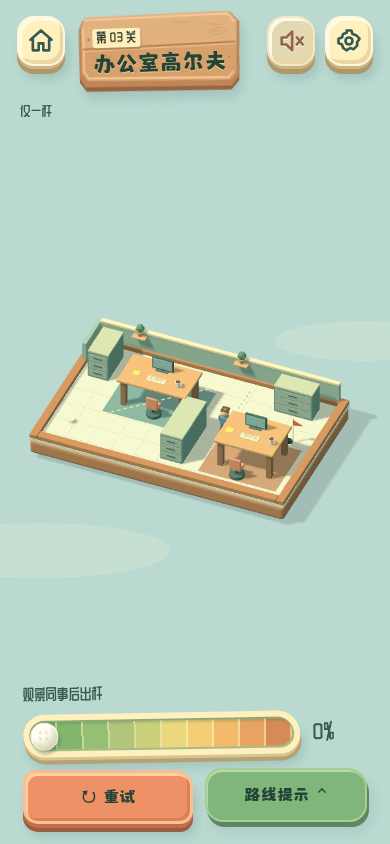
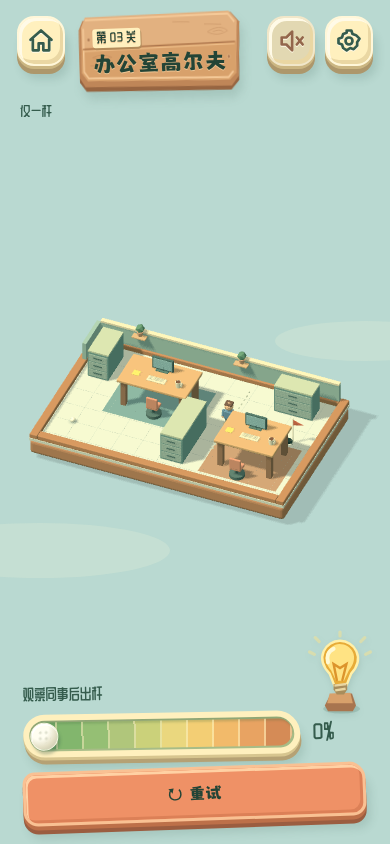
feat: add wooden settings and verified route hint props for stage B

diff --git a/src/main.ts b/src/main.ts
@@ -3,11 +3,14 @@ import "./toy-ui.css";
 import "./fonts.css";
 import "./typography.css";
 import "./stage-a.css";
-import { woodProp, difficultyStars } from "./ui-props";
+import "./stage-b.css";
+import { routeMap } from "./route-map";
+import { Music } from "./music";
+import { woodProp, difficultyStars, bulbProp } from "./ui-props";
 import { icon } from "./ui-icons";
 import gameLogo from "./assets/game-logo.png";
 import { levels } from "./levels";
-import { createBall, shoot, step, STEP, type Ball } from "./physics";
+import { createBall, shoot, step, STEP, actorAt, type Ball } from "./physics";
 import { GolfScene } from "./scene";
 import { Sound } from "./audio";
 import { destinations } from "./world-map";
@@ -18,8 +21,8 @@ function boot() {
   app.innerHTML = `<div class="cloud cloud-a"></div><div class="cloud cloud-b"></div><div id="viewport"><canvas aria-label="立体高尔夫球场：按住白球向后拖拽，松手击球"></canvas></div>
 <header><button id="home" class="icon" aria-label="返回选关">${icon("home")}</button><div class="header-tools"><button id="sound" class="icon" aria-label="关闭音效" aria-pressed="true">${icon("sound")}<span class="icon-label">音效开</span></button><button id="settings-open" class="icon" aria-label="打开设置" aria-haspopup="dialog">${icon("settings")}<span class="icon-label">设置</span></button></div></header>
 <section id="menu"><div class="logo has-official-logo"><h1><img class="official-logo" src="${gameLogo}" width="2023" height="777" alt="一杆归洞" draggable="false" fetchpriority="high"></h1></div><div id="map-labels">${destinations.map((d, i) => `<button class="map-label" data-level="${i}" aria-label="进入第${i + 1}关 ${d.title}">${woodProp()}<span class="plank-hangers" aria-hidden="true"></span><span class="level-number" aria-hidden="true">0${i+1}</span><strong>${d.title}</strong>${difficultyStars(i+1)}<i class="progress" aria-label="通关进度"></i></button>`).join("")}</div><button id="start" class="wood-sign">${woodProp()}<span class="start-play" aria-hidden="true">▶</span><strong>开始游戏</strong></button><button id="menu-assist" hidden class="assist-setting" aria-pressed="false">⚑ 办公室路线辅助：关闭</button></section>
-<section id="game" hidden><div class="level-title">${woodProp()}<span id="subtitle"></span><h2 id="title"></h2></div><div id="shot" class="shot">● 一杆机会</div><div id="tutorial" hidden><span class="hand">☝</span><strong>拖拽白球，松手击球</strong><button id="tutorial-close">知道了</button></div><div class="game-bottom"><div class="feedback"><span id="status" role="status" aria-live="polite">拖拽白球以瞄准</span><div class="power-row"><span class="tee-icon" aria-hidden="true">⚑</span><div class="meter"><i id="power"></i><span class="meter-ticks"></span><span class="power-ball" aria-hidden="true"></span></div><b id="percent">0%</b></div></div><div class="controls"><button id="retry">↻ 重试</button><button id="back" hidden>▦ 选关</button><aside id="route-dock" hidden><button id="route-drawer" aria-expanded="false" aria-controls="route-content">路线提示 <span aria-hidden="true">⌃</span></button><div id="route-content" hidden><h3>路线提示</h3><p class="route-note">沿虚线首段出杆。</p><div id="route-help" hidden role="status"><span id="route-message"></span><button id="offer-route" hidden>显示路线</button></div><button id="route-toggle" aria-pressed="false">⚑ 显示路线</button></div></aside></div><p id="hint"></p></div></section>
-<dialog id="settings" aria-labelledby="settings-title"><div class="settings-head"><div><h2 id="settings-title">设置</h2></div><button id="settings-close" class="icon" aria-label="关闭设置">${icon("close")}</button></div><div class="setting-row"><div><strong>音效</strong></div><button id="settings-sound" class="toy-switch" role="switch" aria-label="游戏音效" aria-checked="true"><span class="switch-knob"></span><b>开</b></button></div><div class="setting-row"><div><strong>第三关路线辅助</strong></div><button id="settings-assist" class="toy-switch" role="switch" aria-label="办公室路线辅助" aria-checked="false"><span class="switch-knob"></span><b>关</b></button></div><button id="settings-done">返回游戏</button></dialog>
+<section id="game" hidden><div class="level-title">${woodProp()}<span id="subtitle"></span><h2 id="title"></h2></div><div id="shot" class="shot">● 一杆机会</div><div id="tutorial" hidden><span class="hand">☝</span><strong>拖拽白球，松手击球</strong><button id="tutorial-close">知道了</button></div><div class="game-bottom"><div class="feedback"><span id="status" role="status" aria-live="polite">拖拽白球以瞄准</span><div class="power-row"><span class="tee-icon" aria-hidden="true">⚑</span><div class="meter"><i id="power"></i><span class="meter-ticks"></span><span class="power-ball" aria-hidden="true"></span></div><b id="percent">0%</b></div></div><div class="controls"><button id="retry">↻ 重试</button><button id="back" hidden>▦ 选关</button><aside id="route-dock" hidden><button id="route-drawer" aria-label="打开路线提示" aria-expanded="false" aria-controls="route-content">${bulbProp()}</button><div id="route-content" hidden role="region" tabindex="0" aria-label="路线提示木牌，点击空白或按 Escape 收起"><span class="route-posts" aria-hidden="true"></span>${woodProp()}<h3>路线提示</h3><button id="route-close" aria-label="关闭路线提示">${icon("close")}</button><div id="route-map"></div><div id="route-help" role="status"><span id="route-message"></span><button id="offer-route" hidden>显示路线</button></div><button id="route-toggle" aria-pressed="false">显示路线</button></div></aside></div><p id="hint"></p></div></section>
+<dialog id="settings" aria-labelledby="settings-title"><div class="settings-frame" aria-hidden="true">${woodProp()}</div><div class="settings-head"><div class="settings-sign">${woodProp()}<h2 id="settings-title">设置</h2></div><button id="settings-close" class="icon" aria-label="关闭设置">${icon("close")}</button></div><div class="settings-paper"><div class="setting-row"><strong>♫ 音乐</strong><button id="settings-music" class="toy-switch" role="switch" aria-label="背景音乐" aria-checked="false"><span class="switch-knob"></span><b>关</b></button></div><div class="setting-row"><strong>♪ 音效</strong><button id="settings-sound" class="toy-switch" role="switch" aria-label="游戏音效" aria-checked="true"><span class="switch-knob"></span><b>开</b></button></div><button id="instructions-toggle" aria-expanded="false" aria-controls="instructions">玩法说明 <span aria-hidden="true">⌄</span></button><div id="instructions" hidden>向后拖拽白球，松手击球。<br>每次仅一杆，球经过洞口即通关。<br>第三关点击灯泡查看真实路线。</div></div><button id="settings-done">返回游戏</button></dialog>
 <div id="result" hidden><div class="resultbox" role="dialog" aria-modal="true" aria-labelledby="result-title"><div class="ribbon-confetti" aria-hidden="true"><i style="--n:0">★</i><i style="--n:1">▪</i><i style="--n:2">▪</i><i style="--n:3">★</i><i style="--n:4">▪</i><i style="--n:5">▪</i><i style="--n:6">★</i><i style="--n:7">▪</i><i style="--n:8">▪</i><i style="--n:9">★</i><i style="--n:10">▪</i><i style="--n:11">▪</i></div><div id="stars">✦ ★ ✦</div><span id="result-label"></span><h2 id="result-title"></h2><p id="result-text"></p><div id="result-stats" hidden><div><small>本次用时</small><strong id="score-time"></strong></div><div><small>历史最佳</small><strong id="score-best"></strong></div><div><small>反弹次数</small><strong id="score-bounces"></strong></div></div><div id="result-route-offer" hidden><span>需要路线提示吗？</span><button id="result-route">显示路线</button></div><div class="result-actions"><button id="next" class="primary">下一关 →</button><button id="retry-result">↻ 再试一次</button><button id="result-menu">返回选关</button></div></div></div><div id="webgl-error" hidden role="alert"><h2>这个小世界暂时无法打开</h2><p>游戏需要 WebGL。请使用较新的 Chrome、Edge、Firefox 或 Safari，并开启浏览器硬件加速后刷新页面。</p><button onclick="location.reload()">重新加载</button></div>`;
   const el = (id: string) => document.getElementById(id)!;
   const canvas = document.querySelector("canvas")!;
@@ -44,17 +47,28 @@ function boot() {
     winDelay = -1,
     tutorialSeen = false;
   const sound = new Sound();
+  const music = new Music();
+  try { music.enabled=localStorage.getItem("golf-music")==="on"; } catch {}
+  document.addEventListener("pointerdown",()=>music.unlock());
+  document.addEventListener("keydown",()=>music.unlock());
+  document.addEventListener("visibilitychange",()=>music.visibility());
+  window.addEventListener("pagehide",()=>music.dispose(),{once:true});
+  function syncMusic() {el("settings-music").setAttribute("aria-checked",String(music.enabled));el("settings-music").querySelector("b")!.textContent=music.enabled?"开":"关";}
+  syncMusic();
+  el("settings-music").onclick=()=>{music.toggle();syncMusic();try{localStorage.setItem("golf-music",music.enabled?"on":"off");}catch{}};
+  el("instructions-toggle").onclick=()=>{const open=el("instructions").hidden;el("instructions").hidden=!open;el("instructions-toggle").setAttribute("aria-expanded",String(open));};
   // Reuse one worker: expensive unsuccessful searches never block pointer input.
   const routeWorker=new Worker(new URL('./route-worker.ts',import.meta.url),{type:'module'});
-  let generation=0, searching=false, workerAvailable=true;
+  let generation=0, searching=false, workerAvailable=true, routeOpen=false;
   routeWorker.onmessage=(e:MessageEvent<{route:Route|null;time:number;generation:number}>)=>{
     searching=false;
-    if(e.data.generation!==generation || screen!=="game" || index!==2 || !assist || ball.state!=="ready") return;
-    route=e.data.route && ball.time-e.data.time<=.5?e.data.route:null;
+    if(e.data.generation!==generation || screen!=="game" || index!==2 || !assist || !routeOpen || ball.state!=="ready") return;
+    route=e.data.route && ball.time-e.data.time<=.25?e.data.route:null;
     view.showRoute(route?.points);
+    el("route-map").innerHTML=routeMap(levels[index],route,ball.time);
     el("route-message").textContent=route?`推荐力度 ${Math.round(route.power/150*100)}% · 可出杆`:"等待同事经过";
   };
-  routeWorker.onerror=()=>{workerAvailable=false;searching=false;route=null;view.showRoute();el("route-message").textContent="提示不可用，请重载";};
+  routeWorker.onerror=()=>{workerAvailable=false;searching=false;route=null;view.showRoute();el("route-map").innerHTML=routeMap(levels[index],null,ball.time);el("route-message").textContent="提示不可用，请重载";};
   let completed: number[] = [];
   let settled=false, assist=false, failures=[0,0,0], nextHint=0, route:Route|null=null, scoreFrame=0;
   try { assist=localStorage.getItem("golf-assist")==="on"; const f=JSON.parse(localStorage.getItem("golf-failures")||"[]"); failures=failures.map((_,i)=>Number.isSafeInteger(f?.[i])&&f[i]>=0?f[i]:0); } catch {}
@@ -216,8 +230,7 @@ function boot() {
     el("menu-assist").textContent=`第三关提示：${assist?"开":"关"}`;
     el("menu-assist").setAttribute("aria-pressed",String(assist));
     el("route-dock").hidden=index!==2;
-    el("settings-assist").setAttribute("aria-checked",String(assist));
-    el("settings-assist").querySelector("b")!.textContent=assist?"开":"关";
+
     el("route-toggle").textContent=assist?"关闭路线":"显示路线";
     el("route-toggle").setAttribute("aria-pressed",String(assist));
     const offer=index===2&&!assist&&failures[2]>=3;
@@ -226,7 +239,7 @@ function boot() {
     el("route-help").hidden=screen!=="game"||index!==2||(!assist&&!offer);
     el("offer-route").hidden=!offer;
     if(offer) el("route-message").textContent="需要路线提示吗？";
-    if(!assist) {route=null; view.showRoute();}
+    if(!assist) {route=null; view.showRoute();el("route-map").innerHTML=routeMap(levels[index],null,ball.time);}
     else el("route-message").textContent="正在验证路线…";
   }
   function toggleAssist() {
@@ -237,11 +250,16 @@ function boot() {
   function setRouteOpen(open: boolean) {
     el("route-content").hidden=!open;
     el("route-drawer").setAttribute("aria-expanded",String(open));
-    el("route-drawer").firstChild!.textContent=open?"收起提示 ":"路线提示 ";
+    routeOpen=open;generation++;route=null;nextHint=0;view.showRoute();
+    el("route-drawer").setAttribute("aria-label",open?"关闭路线提示":"打开路线提示");
+    if(open) {if(!assist) toggleAssist();el("route-map").innerHTML=routeMap(levels[index],null,ball.time);el("route-message").textContent="正在验证路线…";}
+    else el("route-map").innerHTML="";
     document.body.classList.toggle("route-open",open);
   }
   el("route-drawer").onclick=()=>setRouteOpen(el("route-content").hidden);
-  el("settings-assist").onclick=toggleAssist;
+  el("route-close").onclick=()=>{setRouteOpen(false);el("route-drawer").focus();};
+  el("route-content").onclick=(e)=>{if(!(e.target as Element).closest("button"))setRouteOpen(false);};
+  el("route-content").onkeydown=(e)=>{if(e.key==="Escape"||e.key==="Enter"){e.preventDefault();e.stopPropagation();setRouteOpen(false);el("route-drawer").focus();}};
   el("settings-open").onclick=()=>{clearDrag();update();settings.showModal();};
   el("settings-close").onclick=el("settings-done").onclick=()=>settings.close();
   settings.addEventListener("close",()=>{last=performance.now();acc=0;});
@@ -259,7 +277,7 @@ function boot() {
     const r=settings.getBoundingClientRect();
     if(e.target===settings && (e.clientX<r.left||e.clientX>r.right||e.clientY<r.top||e.clientY>r.bottom)) settings.close();
   });
-  el("result-route").onclick=()=>{if(!assist) toggleAssist();start(index);};
+  el("result-route").onclick=()=>{if(!assist) toggleAssist();start(index);setRouteOpen(true);};
   el("menu-assist").onclick=el("route-toggle").onclick=el("offer-route").onclick=toggleAssist;
   function enter(i: number) {
     if (screen !== "menu" || !view.map?.enter(i)) return;
@@ -382,6 +400,7 @@ function boot() {
   };
   window.onkeydown = (e) => {
     if(settings.open) return;
+    if(routeOpen && e.key==="Escape") {e.preventDefault();setRouteOpen(false);el("route-drawer").focus();return;}
     if ((e.target as HTMLElement).tagName === "BUTTON" && e.key === " ") return;
     if (screen === "game" && e.key.toLowerCase() === "r") start(index);
     if (e.key === "Escape") menu();
@@ -420,8 +439,9 @@ function boot() {
       if (destination !== null) start(destination);
     }
     if (screen === "game") {
-      if(index===2 && assist && ball.state==="ready" && ball.time>=nextHint) {
-        if(route && ball.time-route.launchAt>.5) {route=null; view.showRoute();el("route-message").textContent="正在验证路线…";}
+      if(routeOpen) {const a=actorAt(levels[index],ball.time), dot=el("route-map").querySelector("#route-person");if(a&&dot){dot.setAttribute("cx",String(a.x));dot.setAttribute("cy",String(a.y));}}
+      if(index===2 && assist && routeOpen && ball.state==="ready" && ball.time>=nextHint) {
+        if(route && ball.time-route.launchAt>.25) {route=null; view.showRoute();el("route-message").textContent="正在验证路线…";el("route-map").innerHTML=routeMap(levels[index],null,ball.time);}
         if(!searching && workerAvailable) {
           nextHint=ball.time+.25; searching=true;
           routeWorker.postMessage({level:levels[index],time:ball.time,generation});
@@ -486,6 +506,7 @@ function boot() {
           particles: view.particles.children.length,
           aim: view.aim.children.length,
         }),
+        music: () => ({enabled:music.enabled,playing:music.playing}),
         hint: () => route ? {angle:route.angle,power:route.power,launchAt:route.launchAt,points:route.points.length} : null,
         colliders: () => view.collisionBounds(),
         course: () => view.courseSnapshot(),

diff --git a/src/stage-b.css b/src/stage-b.css
@@ -1,0 +1,87 @@
+/* B: wooden paper settings + an edge-mounted lamp and real collision map. */
+#settings { position: fixed; isolation: isolate; width: 420px; max-width: calc(100vw - 32px); padding: 26px 27px 28px; border: 0; border-radius: 0; background: transparent; box-shadow: none; overflow: auto; }
+.settings-frame { position: absolute; inset: 25px 0 6px; z-index: -1; pointer-events: none; }
+.settings-frame .wood-prop { filter: drop-shadow(6px 12px 10px #24443638); }
+#settings .settings-head { margin-bottom: 0; position: relative; min-height: 61px; }
+.settings-sign { position: relative; isolation: isolate; padding: 9px 30px 19px; margin-left: 8px; transform: rotate(-3deg); }
+#settings .settings-sign h2 { margin: 0; font-size: 32px; line-height: 1.2; color: #fff0be; text-shadow: 1px 2px #a57248; }
+#settings .settings-head > .icon { width: 46px; height: 46px; border: 2px solid #fff7d9; border-radius: 18px; background: #fff0be; box-shadow: inset 2px 3px #fffbe3, inset -2px -3px #e8d7a4, 0 5px #b29b6e, 2px 8px 4px #355c4d20; margin-top: -10px; }
+.settings-paper { background: #fff0be; border: 3px solid #fae1a7; padding: 8px 20px 12px; border-radius: 4px 7px 5px 3px; box-shadow: inset 1px 2px #fff9dc, 1px 4px #b78b58; }
+#settings .setting-row { padding: 16px 0; border: 0; border-bottom: 1px solid #dfc993; }
+#settings .setting-row strong { font-family: var(--font-body); font-size: 25px; }
+#settings .toy-switch { width: 82px; height: 44px; min-height: 44px; border: 2px solid #f8e2ac; background: #aab397; box-shadow: inset 1px 3px #798e6b55, 0 4px #b3a273; }
+#settings .toy-switch[aria-checked=true] { background: #6da778; }
+#settings .switch-knob { width: 30px; height: 30px; top: 4px; left: 4px; background: #fff6d8; box-shadow: inset 1px 2px #fffceb, 1px 3px #526d5c55; }
+#settings .toy-switch[aria-checked=true] .switch-knob { transform: translateX(38px); }
+#settings .toy-switch b { font-size: 18px; top: 11px; right: 9px; }
+#settings .toy-switch[aria-checked=true] b { left: 9px; }
+#instructions-toggle { margin-top: 12px; width: 100%; padding: 7px 0; background: none; box-shadow: none; color: #355c4d; font-size: 18px; text-align: left; border: 0; border-radius: 0; }
+#instructions-toggle span { float: right; }
+#instructions { font-family: var(--font-body); font-size: 17px; line-height: 1.7; padding-top: 8px; }
+#settings #settings-done { margin-top: 18px; min-height: 46px; font-size: 20px; border-radius: 9px 12px 10px 11px; border-color: #f4bd8b; box-shadow: inset 1px 3px #ffd2a5, 0 5px #a96847; }
+/* Fixed HUD prop: does not add a collider or move/refit the camera. */
+#route-dock { position: fixed; right: 26px; bottom: 125px; width: 72px; height: 88px; z-index: 4; }
+#route-drawer { width: 72px; height: 88px; min-height: 88px; padding: 0; border: 0; border-radius: 0; background: transparent; box-shadow: none; filter: drop-shadow(1px 3px 3px #355c4d22); transform: none; }
+.bulb-prop { display: block; width: 100%; height: 100%; overflow: visible; }
+#route-drawer span { display: none; }
+#route-drawer:hover { transform: translateY(-4px) rotate(-4deg); }
+#route-drawer:active { transform: translateY(4px) scale(.93); box-shadow: none; }
+#route-drawer[aria-expanded=true] { filter: drop-shadow(0 0 9px #ffdc7688); }
+.bulb-rays { opacity: .45; }
+#route-drawer[aria-expanded=true] .bulb-rays, #route-drawer.has-offer .bulb-rays { opacity: 1; }
+#route-drawer.has-offer::after { display: none; }
+#route-content { isolation: isolate; position: absolute; bottom: 100px; right: 0; width: 320px; max-width: calc(100vw - 40px); max-height: none; padding: 13px 19px 23px; border: 0; border-radius: 0; background: none; box-shadow: none; overflow: visible; transform-origin: bottom right; animation: board-rise .35s var(--toy-bounce) both; cursor: pointer; }
+#route-content .wood-prop { filter: drop-shadow(3px 8px 5px #355c4d33); }
+.route-posts { position: absolute; top: 35%; bottom: -22px; left: 20%; width: 12px; z-index: -2; background: #b17d51; border-left: 3px solid #e2b784; box-shadow: 3px 2px #90633e, 3px 8px 4px #355c4d26; }
+.route-posts::after { content: ''; position: absolute; top: 0; left: 180px; height: 100%; width: 10px; background: #b17d51; border-left: 3px solid #e2b784; box-shadow: 3px 2px #90633e; }
+#route-content h3 { margin: 0 25px 5px 2px; font-size: 22px; line-height: 1.35; color: #fff0be; text-shadow: 1px 2px #a57248; }
+#route-close { position: absolute; top: 13px; right: 15px; width: 28px; min-height: 28px; padding: 5px; border-radius: 50%; background: #fff0be; color: #355c4d; box-shadow: 0 3px #b28756; }
+#route-close svg { display: block; width: 18px; height: 18px; }
+#route-map { background: #fff0be; border: 3px solid #f5d5a1; border-radius: 4px 7px 3px 5px; box-shadow: 0 3px #ab7b4c; cursor: pointer; }
+#route-map svg { display: block; width: 100%; height: 150px; pointer-events: none; }
+#route-help { margin: 7px 0 0; padding: 0; font-size: 16px; line-height: 1.3; color: #355c4d; }
+#route-toggle { width: auto; min-height: 26px; margin: 5px 0 0; padding: 3px 8px; font-size: 14px; border-radius: 5px; background: #fff0be; border: 0; box-shadow: 0 2px #b28756; }
+#route-toggle[aria-pressed=true] { display: none; }
+#offer-route { display: none; }
+
+@keyframes board-rise { from { opacity: 0; transform: translateY(26px) rotate(3deg) scale(.92); } to { opacity: 1; transform: none; } }
+@media(max-width:650px) {
+  #settings { padding: 22px 24px 26px; }
+  .settings-paper { padding: 5px 16px 10px; }
+  #settings .setting-row strong { font-size: 23px; }
+  #route-dock { right: 18px; bottom: 128px; width: 64px; height: 80px; }
+  #route-drawer { width: 64px; height: 80px; min-height: 80px; }
+  body.route-open #route-dock { bottom: 20px; }
+  #route-content { width: 330px; bottom: 92px; padding: 11px 17px 20px; }
+  #route-map svg { height: 140px; }
+  #route-content h3 { font-size: 21px; }
+  body.route-open .feedback, body.route-open #game .controls > #retry { visibility: hidden; }
+  .route-posts::after { left: 160px; }
+}
+@media(max-height:700px) and (max-width:650px) {
+  #route-content { bottom: 82px; padding: 9px 16px 17px; }
+  #route-map svg { height: 96px; }
+  #route-content h3 { font-size: 19px; margin-bottom: 3px; }
+  #route-help { font-size: 14px; margin-top: 5px; }
+}
+@media(max-height:530px) and (min-width:651px) {
+  #route-dock { right: 18px; bottom: 110px; width: 58px; height: 72px; }
+  #route-drawer { width: 58px; height: 72px; min-height: 72px; }
+  #route-content { width: 240px; bottom: 20px; right: 76px; padding: 10px 15px 18px; }
+  #route-map svg { height: 90px; }
+  #route-content h3 { font-size: 19px; }
+  #route-help { font-size: 14px; }
+}
+@media(prefers-reduced-motion:reduce) { #route-content { animation: none; } }
+/* Switch position/colour communicate state; avoid lettering under the thumb. */
+#settings .toy-switch b { display: none; }
+@media(max-height:530px) and (min-width:651px) {
+  #settings { padding: 15px 25px 20px; max-height: calc(100dvh - 24px); }
+  #settings .settings-head { min-height: 49px; }
+  .settings-sign { padding: 6px 26px 14px; }
+  #settings .settings-sign h2 { font-size: 26px; }
+  #settings .setting-row { padding: 8px 0; }
+  #settings .setting-row strong { font-size: 22px; }
+  #instructions-toggle { margin-top: 7px; padding: 5px 0; }
+  #settings #settings-done { margin-top: 10px; padding: 6px; min-height: 36px; font-size: 18px; }
+}

diff --git a/src/route-map.ts b/src/route-map.ts
@@ -1,0 +1,16 @@
+import { WIDTH, HEIGHT, type Level } from './levels';
+import { actorAt } from './physics';
+import type { Route } from './route-hints';
+// Read-only view of actual collision geometry and verified simulator points.
+export function routeMap(level: Level, route: Route | null, time: number) {
+  const actor = actorAt(level, time);
+  const path = route ? `<polyline data-verified-route points="${route.points.map(p=>`${p.x.toFixed(2)},${p.y.toFixed(2)}`).join(' ')}" fill="none" stroke="#e6aa32" stroke-width="10" stroke-linecap="round" stroke-linejoin="round" stroke-dasharray="16 17"/>` : '';
+  return `<svg viewBox="-14 -14 ${WIDTH+28} ${HEIGHT+28}" role="img" aria-label="办公室真实碰撞地图${route?'及已验证参考路线':'，等待验证路线'}"><rect width="${WIDTH}" height="${HEIGHT}" rx="22" fill="#fff0be" stroke="#cfb981" stroke-width="7"/>
+  ${(level.desks||[]).map(d=>`<rect x="${d.x}" y="${d.y}" width="${d.w}" height="${d.h}" rx="8" fill="#d5a16e" opacity=".17"/>`).join('')}
+  ${level.obstacles.map(o=>`<rect data-collider="${o.id}" x="${o.x}" y="${o.y}" width="${o.w}" height="${o.h}" rx="2" fill="${o.model==='desk-leg'?'#a47950':'#6b9483'}" stroke="#355c4d" stroke-width="3"/>`).join('')}
+  ${(level.circles||[]).map(c=>`<circle data-collider="${c.id}" cx="${c.x}" cy="${c.y}" r="${c.r}" fill="#83ad80" stroke="#355c4d" stroke-width="3"/>`).join('')}
+  ${level.walker?`<path d="M${level.walker.x} ${level.walker.y-level.walker.amplitude}V${level.walker.y+level.walker.amplitude}" stroke="#db9770" stroke-width="5" stroke-dasharray="8 12"/>`:''}${path}
+  ${actor?`<circle id="route-person" cx="${actor.x}" cy="${actor.y}" r="${level.walker!.r}" fill="#ef9166" stroke="#a8654b" stroke-width="4"/>`:''}
+  <circle cx="${level.start.x}" cy="${level.start.y}" r="14" fill="#fffef2" stroke="#a9ae91" stroke-width="4"/>
+  <circle cx="${level.hole.x}" cy="${level.hole.y}" r="17" fill="#355c4d"/><path d="M${level.hole.x} ${level.hole.y}v-65l44 14-44 16" fill="#ef9166" stroke="#fff9df" stroke-width="5"/></svg>`;
+}

diff --git a/src/music.ts b/src/music.ts
@@ -1,0 +1,35 @@
+// Original generated toy-piano loop. One reusable context/buffer, no timers or downloads.
+export class Music {
+  enabled = false;
+  private context?: AudioContext;
+  private source?: AudioBufferSourceNode;
+  private buffer?: AudioBuffer;
+  unlock() {
+    if (!this.enabled || document.hidden) return;
+    try {
+      const c = this.context ??= new AudioContext();
+      void c.resume();
+      if (this.source) return;
+      if (!this.buffer) {
+        const rate = 22050, duration = 16;
+        this.buffer = c.createBuffer(1, rate * duration, rate);
+        const data = this.buffer.getChannelData(0);
+        const notes = [60,64,67,72,69,67,64,62,60,64,67,76,72,67,64,62];
+        notes.forEach((note, beat)=>{
+          const hz=440*2**((note-69)/12);
+          for(let n=0;n<rate*1.6;n++) {
+            const at=beat*rate+n;if(at>=data.length)break;
+            const t=n/rate, envelope=Math.min(1,t/.025)*Math.exp(-3*t)*Math.min(1,(1.6-t)/.1);
+            data[at]+=.035*envelope*(Math.sin(2*Math.PI*hz*t)+.2*Math.sin(4*Math.PI*hz*t));
+          }
+        });
+      }
+      this.source=c.createBufferSource();this.source.buffer=this.buffer;this.source.loop=true;this.source.connect(c.destination);this.source.start();
+    } catch { /* Audio unavailable: visuals and physics continue. */ }
+  }
+  toggle() { this.enabled=!this.enabled;if(this.enabled)this.unlock();else this.stop(); }
+  private stop() {this.source?.stop();this.source?.disconnect();this.source=undefined;}
+  visibility() {if(document.hidden){void this.context?.suspend();}else if(this.enabled)this.unlock();}
+  dispose() {this.stop();void this.context?.close();}
+  get playing() {return !!this.source&&this.context?.state==='running';}
+}

diff --git a/src/ui-props.ts b/src/ui-props.ts
@@ -14,3 +14,6 @@ export function difficultyStars(count: number) {
   const star=`<svg viewBox="0 0 40 42" aria-hidden="true"><path fill="#bc7e32" d="m20 4 5.7 12 13 2-9.4 9.5 2.2 13L20 34.6 8.5 40.5l2.2-13L1.3 18l13-2Z"/><path fill="#f3bd47" d="m20 1 5.7 12 13 2-9.4 9.5 2.2 13L20 31.6 8.5 37.5l2.2-13L1.3 15l13-2Z"/><path fill="#ffe797" d="M20 1v20L1.3 15l13-2Zm0 20 9.3 3.5 2.2 13L20 31.6Z"/><path fill="#ffda6b" d="M20 21 8.5 37.5l2.2-13Z"/><path d="m17 10 3-6 4 9" fill="none" stroke="#fff1bd" stroke-width="1.5" stroke-linecap="round"/></svg>`;
   return `<span class="difficulty" role="img" aria-label="难度 ${count} 星">${star.repeat(count)}</span>`;
 }
+export function bulbProp() {
+ return `<svg class="bulb-prop" viewBox="0 0 80 100" aria-hidden="true"><ellipse cx="42" cy="91" rx="23" ry="6" fill="#355c4d" opacity=".17"/><path d="m28 73 27-1 5 15-4 7H25l-4-7Z" fill="#a8754f"/><path d="m27 72 26-1 3 13H24Z" fill="#d8a16b"/><path d="M27 47C8 27 22 6 40 6s32 21 14 41l-6 15H33Z" fill="#e7ab38" stroke="#fff0a9" stroke-width="3"/><path d="M29 43C15 27 26 11 39 10c16 0 26 17 12 33l-6 13H35Z" fill="#ffe383"/><path d="M32 16c-7 3-9 10-7 17" fill="none" stroke="#fff9d3" stroke-width="5" stroke-linecap="round"/><path d="m36 55-4-20 8 5 8-5-5 20" fill="none" stroke="#dc942c" stroke-width="3" stroke-linecap="round"/><path d="M32 60h17v7l-4 6H36l-4-6Z" fill="#a88d5c"/><path d="m33 62 15-2m-14 8 13-2" stroke="#e9d6a1" stroke-width="3"/><g class="bulb-rays" stroke="#ffe487" stroke-width="4" stroke-linecap="round"><path d="M8 23 2 20M72 23l6-3M14 7 9 2M66 7l5-5M40 0v-5"/></g></svg>`;
+}

diff --git a/src/toy-ui.css b/src/toy-ui.css
@@ -153,7 +153,6 @@ header .icon.muted::after { display: none; }
 #route-help { position: static; transform: none; width: auto; max-width: none; background: none; box-shadow: none; border-radius: 0; padding: 0; margin: 0 0 8px; font: 400 16px/1.3 var(--font-body); color: var(--toy-pine); }
 #route-message { display: block; }
 #route-toggle, #offer-route { margin: 8px 0 0; width: 100%; font-size: 19px; min-height: 44px; padding: 8px 12px; }
-.route-open.playing #viewport { bottom: 345px; }
 /* Native dialog keeps the field inert while paused; controls cycle inside the frame. */
 #settings {
   width: 460px; max-width: calc(100vw - 36px); max-height: calc(100dvh - 40px); overflow: auto;
@@ -214,7 +213,6 @@ header .icon.muted::after { display: none; }
   #route-dock { min-width: 0; }
   #route-drawer span { margin-left: 1px; }
   #route-content { bottom: calc(100% + 100px); width: 320px; right: 0; }
-  .route-open.playing #viewport { bottom: 377px; }
   #tutorial strong { font-size: 15px; }
   #tutorial-close { font-size: 13px; min-height: 38px; }
   #tutorial { padding: 8px 10px; gap: 8px; }
@@ -231,7 +229,6 @@ header .icon.muted::after { display: none; }
   #map-labels .island-name { display: none; }
   #start.wood-sign { padding: 6px 14px; }
   #start.wood-sign strong { font-size: 16px; }
-  .route-open.playing #viewport { bottom: 245px; }
   #route-content { max-height: 150px; }
 }
 @media(prefers-reduced-motion:reduce) {

diff --git a/README.md b/README.md
@@ -181,3 +181,14 @@ npm run preview
 验证：`npm run build`、`npm test`，启动后依次运行 `node tests/stage-a.mjs`、`node tests/menu.mjs`、`node tests/toy-ui.mjs`、`node tests/rewards.mjs`。阶段 A 截图为 `docs/screenshots/stage-a-menu-{desktop,mobile,small,landscape}.png`、`stage-a-office-{desktop,mobile,small,landscape}.png` 和 `stage-a-aim.png`。截图来自 Chromium 实际运行，不是生成图。
 
 对照参考图：本阶段已落实切角拼板、明显侧边、顶部高光、右下接触阴影、金星分面和奶油色力度计外壳；UI 采用可交互的矢量道具层，不是场景替换或参考图贴片。首页开始按钮仍沿用原有锚点、三岛构图及镜头不变。参考中的灯泡提示牌、木框设置和布旗／金色纪录横幅尚未实施，分别属于后续 B、C 阶段。
+
+## UI 组件阶段 B：设置与路线木牌
+
+- 设置使用原创矢量厚木框、奶油纸面和独立木牌标题；保留音乐、音效两个开关，以及可展开的玩法说明。音乐为程序生成的原创轻音乐循环，默认关闭，仅在用户交互后启用；独立保存 `golf-music`，音效沿用 `golf-sound`。每种音频复用自己的 AudioContext，无外部音乐资源；切到后台暂停音乐，关闭页面释放音频节点。
+- 第三关显示可点击的灯泡道具；第一、二关隐藏入口。打开后，带立柱与木纹的提示牌弹出，再点灯泡、木牌空白、关闭按钮或按 Escape 均可收起。手机展开时暂让出底部力度及重试空间，收起即恢复。
+- `src/route-map.ts` 直接读取实际家具碰撞体、同事位置和既有模拟器返回的路径点。只有验证成功才绘制参考虚线；出杆窗口过期即清除旧线并重新验证，无可行窗口时显示等待。桌面淡色家具轮廓仅说明可穿行的桌底，实色部件才是碰撞体。点击提示不代替击球。
+- 移除了旧提示抽屉打开时改变画布尺寸的规则：提示开启／关闭不改变球场镜头。没有修改场景、关卡配置、碰撞、摩擦、路线搜索算法、字体或 Logo。阶段 C 的横幅与专属纪录反馈尚未实施。
+- `node tests/stage-b.mjs` 检查实际音频启动与设置持久化、原生设置焦点／暂停、四种尺寸、无入口的前两关、真实地图、投影不变、关闭清线，以及依据实时推荐实际出杆进洞。原有 UI 和成绩测试已改用灯泡交互，不再依赖旧设置里的路线开关。
+- 实际截图：`docs/screenshots/stage-b-settings-{desktop,mobile,small,landscape}.png`、`stage-b-bulb-*.png`、`stage-b-route-*.png`。均为浏览器运行截图。
+
+路线显示采用最多 0.25 秒的推荐快照，为模拟器原有的安全出杆窗口预留拖拽时间；没有改变搜索算法或人物时钟。动态人物仍需观察时机，过期路线会撤下，提示不保证任意等待后出杆仍然可行。
